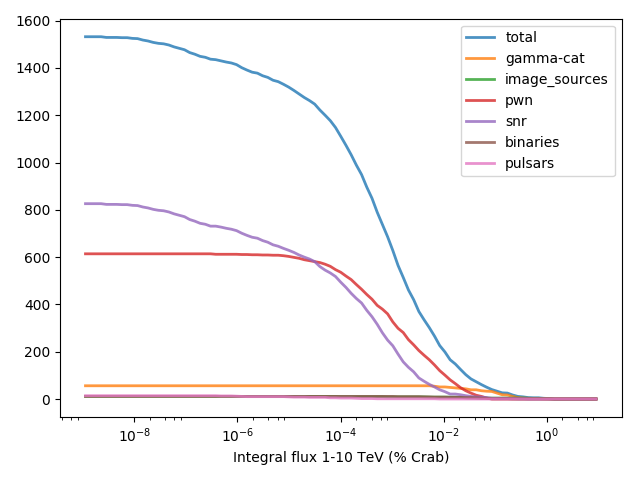
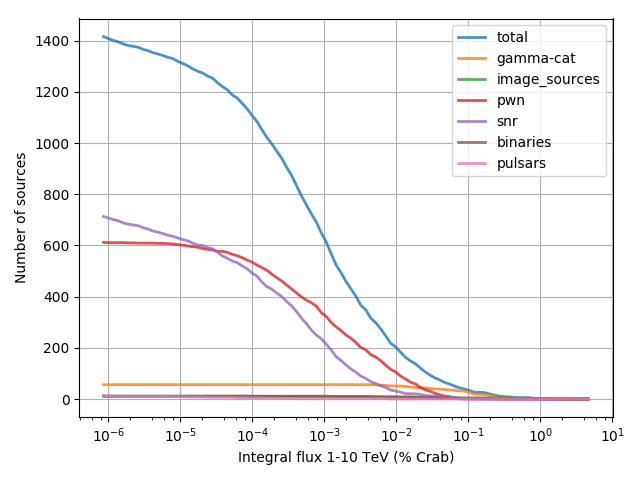
update

diff --git a/sky_model_checks/source_parameter_distributions.py b/sky_model_checks/source_parameter_distributions.py
@@ -512,41 +512,64 @@ class GPSSkyModel:
         log.info('Writing {}'.format(filename))
         fig.savefig(filename)
 
-    def get_logn_logs(self, quantity):
+    def get_logn_logs(self, quantity, variant):
         crab_1_10 = CrabSpectrum().model.integral(1 * u.TeV, 10 * u.TeV).to('cm-2 s-1').value
-        bins = np.logspace(-9, 1, 100)
+        bins = np.logspace(-6.1, 0.7, 100)
 
         hists = []
         for component in self.get_components():
             table = component['table']
             points = table['flux_1_10'] / crab_1_10
             hist = Histogram.from_points(bins=bins, points=points)
-            if quantity == 'int':
+
+            if quantity == 'n':
+                pass
+            elif quantity == 'f':
+                hist.vals = hist.vals * hist.bin_centers
+            else:
+                raise ValueError('Invalid quantity: {}'.format(quantity))
+
+            if variant == 'diff':
+                pass
+            elif variant == 'int':
                 hist.vals = np.cumsum(hist.vals[::-1])[::-1]
+            else:
+                raise ValueError('Invalid variant: {}'.format(variant))
+
             hists.append(hist)
 
         return HistogramStack(hists)
 
-    def plot_logn_logs(self, quantity, sigma):
+    def plot_logn_logs(self, quantity, variant, sigma):
         fig, ax = plt.subplots()
 
-        hists = self.get_logn_logs(quantity)
+        hists = self.get_logn_logs(quantity, variant)
         kwargs = dict(alpha=0.8, lw=2)
         hists.total.smooth(sigma=sigma).plot_smooth(ax, label='total', **kwargs)
         for tag, hist in zip(self.tags, hists.hists):
             hist.smooth(sigma=sigma).plot_smooth(ax, label=tag, **kwargs)
 
         ax.set_xlabel('Integral flux 1-10 TeV (% Crab)')
-        ax.semilogx()
+
+        if quantity == 'n':
+            ax.set_ylabel('Number of sources')
+        elif quantity == 'f':
+            ax.set_ylabel('Flux of sources')
+        else:
+            raise ValueError('Invalid quantity: {}'.format(quantity))
+
         ax.legend(loc='best')
+        ax.grid('on')
+
+        ax.semilogx()
         fig.tight_layout()
-        filename = 'ctadc_skymodel_gps_sources_logn_logs_{}.png'.format(quantity)
+        filename = 'ctadc_skymodel_gps_sources_log{}_logs_{}.png'.format(quantity, variant)
         log.info('Writing {}'.format(filename))
         fig.savefig(filename)
 
         ax.loglog()
         fig.tight_layout()
-        filename = 'ctadc_skymodel_gps_sources_logn_logs_{}_logscale.png'.format(quantity)
+        filename = 'ctadc_skymodel_gps_sources_log{}_logs_{}_logscale.png'.format(quantity, variant)
         log.info('Writing {}'.format(filename))
         fig.savefig(filename)
 
@@ -629,7 +652,9 @@ if __name__ == '__main__':
     # gps.plot_galactic_z()
     # gps.plot_galactic_r()
 
-    gps.plot_logn_logs(quantity='diff', sigma=2)
-    gps.plot_logn_logs(quantity='int', sigma=None)
+    gps.plot_logn_logs(quantity='n', variant='diff', sigma=2)
+    gps.plot_logn_logs(quantity='n', variant='int', sigma=None)
+    gps.plot_logn_logs(quantity='f', variant='diff', sigma=2)
+    gps.plot_logn_logs(quantity='f', variant='int', sigma=None)
 
     # gps.plot_all_spectral_models()

diff --git a/sky_model_checks/README.md b/sky_model_checks/README.md
@@ -44,13 +44,28 @@ image_sources        11 6.27654769846e-11
   * There is no bug. The fact that there are only few SNRs with small angular size is a result
     of Pierre's model, which contains very few SNRs with small physical size, i.e. below 10 pc.
 * logN-logS:
+  * This shows number of sources on the y axis.
+    The most useful variant of these plots is the one that's integral with log in y-axis,
+    because that allows one to read off roughly the number of sources above a given flux level.
   * Differential (linear in y-axis): [ctadc_skymodel_gps_sources_logn_logs_diff.png](ctadc_skymodel_gps_sources_logn_logs_diff.png)
   * Differential (log in y-axis): [ctadc_skymodel_gps_sources_logn_logs_diff_logscale.png](ctadc_skymodel_gps_sources_logn_logs_diff_logscale.png)
   * Integral (linear in y-axis): [ctadc_skymodel_gps_sources_logn_logs_int.png](ctadc_skymodel_gps_sources_logn_logs_int.png)
   * Integral (log in y-axis): [ctadc_skymodel_gps_sources_logn_logs_int_logscale.png](ctadc_skymodel_gps_sources_logn_logs_int_logscale.png)
   * Another version, from one of Roberta's scripts: [logN_logS_gammalib.png](logN_logS_gammalib.png)
 * logF-logS:
-  * TODO
+  * This shows flux of sources on the y axis.
+    This is useful to assess the total flux in each component,
+    as well as which sources contribute what fraction of the total emission, e.g.:
+    "Do the faint sources in the 0.1% to 1% Crab flux brightness band contribute much to the diffuse emission?"
+  * Conclusion: in this model, for the 1-10 TeV energy band,
+    there aren't very many faint sources, they don't contribute much to the total flux.
+    * There's 16 Crab flux in total, and the sources with flux below 1% Crab have flux ~ 1 Crab all together.
+    * There's very little flux from the sources below 1 mCrab.
+  * Differential (linear in y-axis): [ctadc_skymodel_gps_sources_logf_logs_diff.png](ctadc_skymodel_gps_sources_logf_logs_diff.png)
+  * Differential (log in y-axis): [ctadc_skymodel_gps_sources_logf_logs_diff_logscale.png](ctadc_skymodel_gps_sources_logf_logs_diff_logscale.png)
+  * Integral (linear in y-axis): [ctadc_skymodel_gps_sources_logf_logs_int.png](ctadc_skymodel_gps_sources_logf_logs_int.png)
+  * Integral (log in y-axis): [ctadc_skymodel_gps_sources_logf_logs_int_logscale.png](ctadc_skymodel_gps_sources_logf_logs_int_logscale.png)
+     
 * Source size vs flux
 
 ### Spectra
